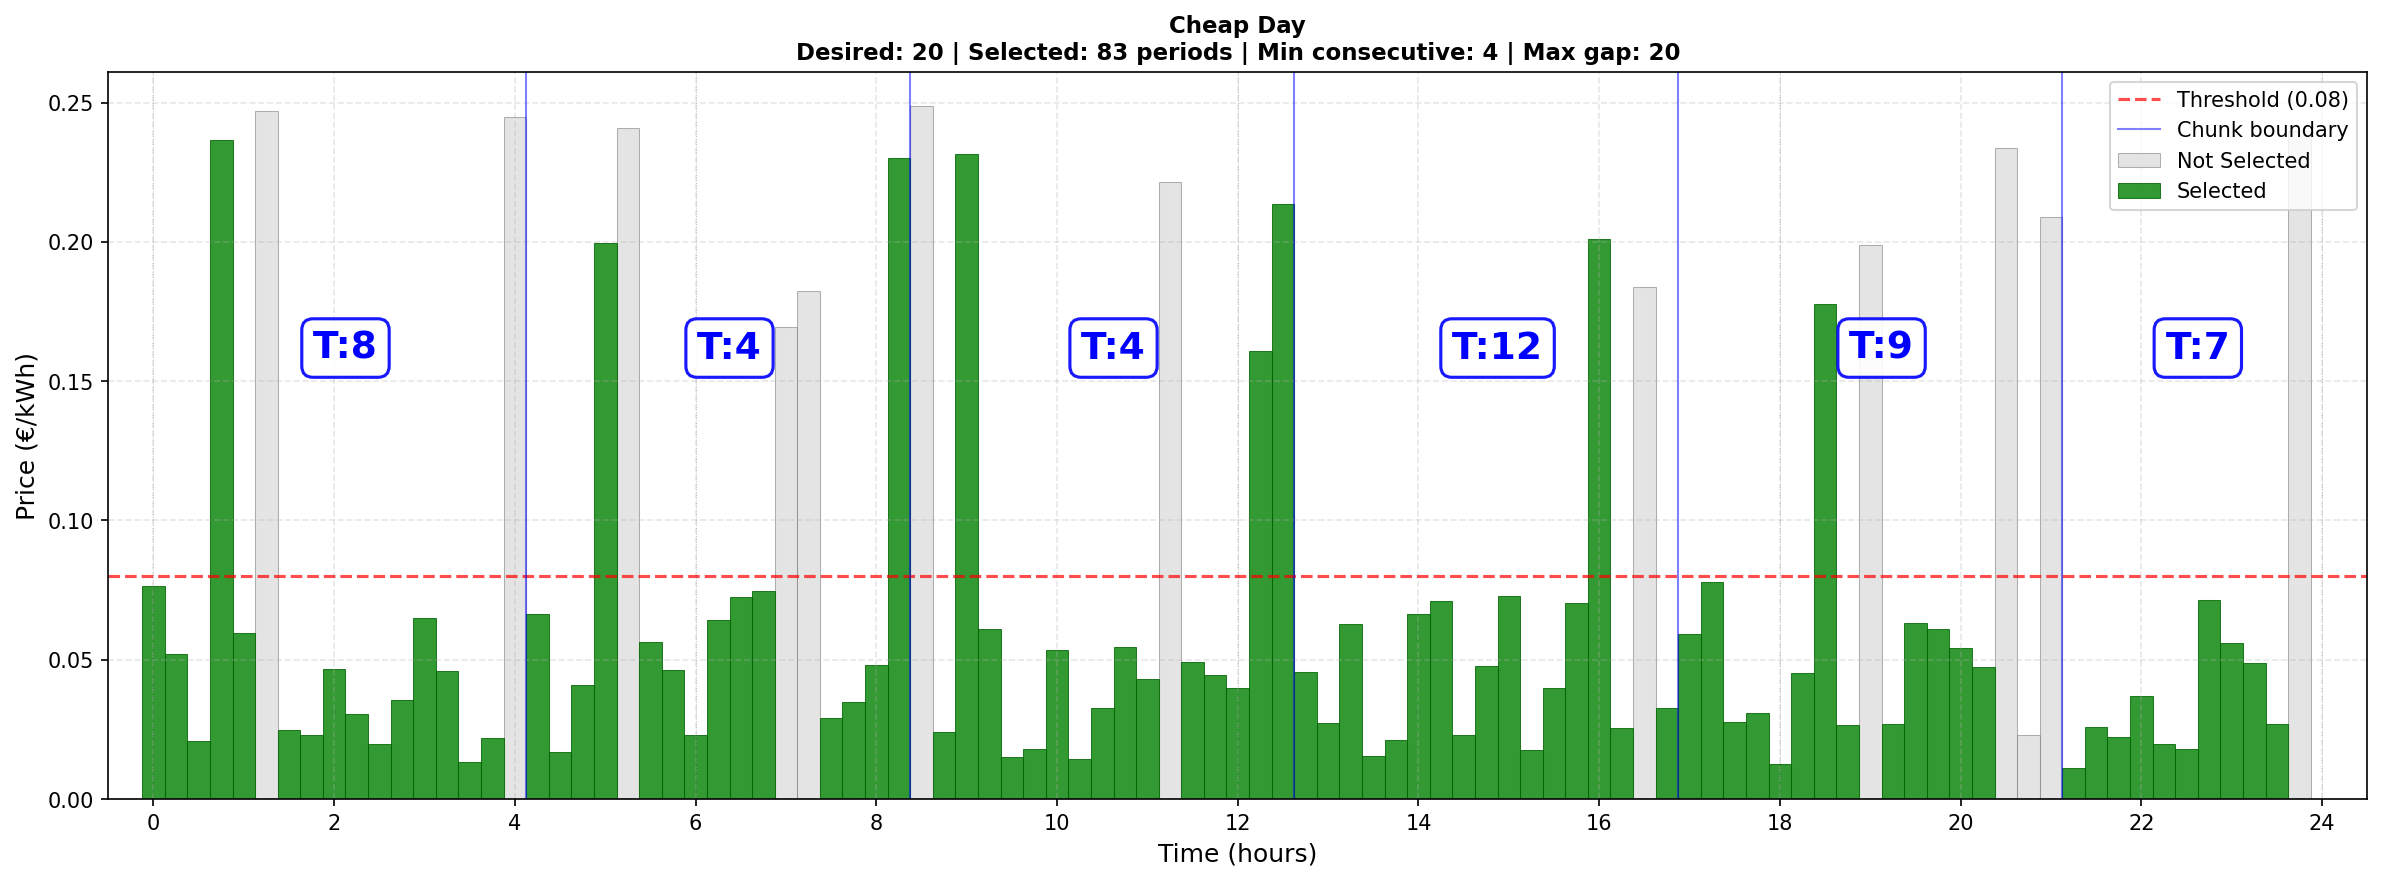
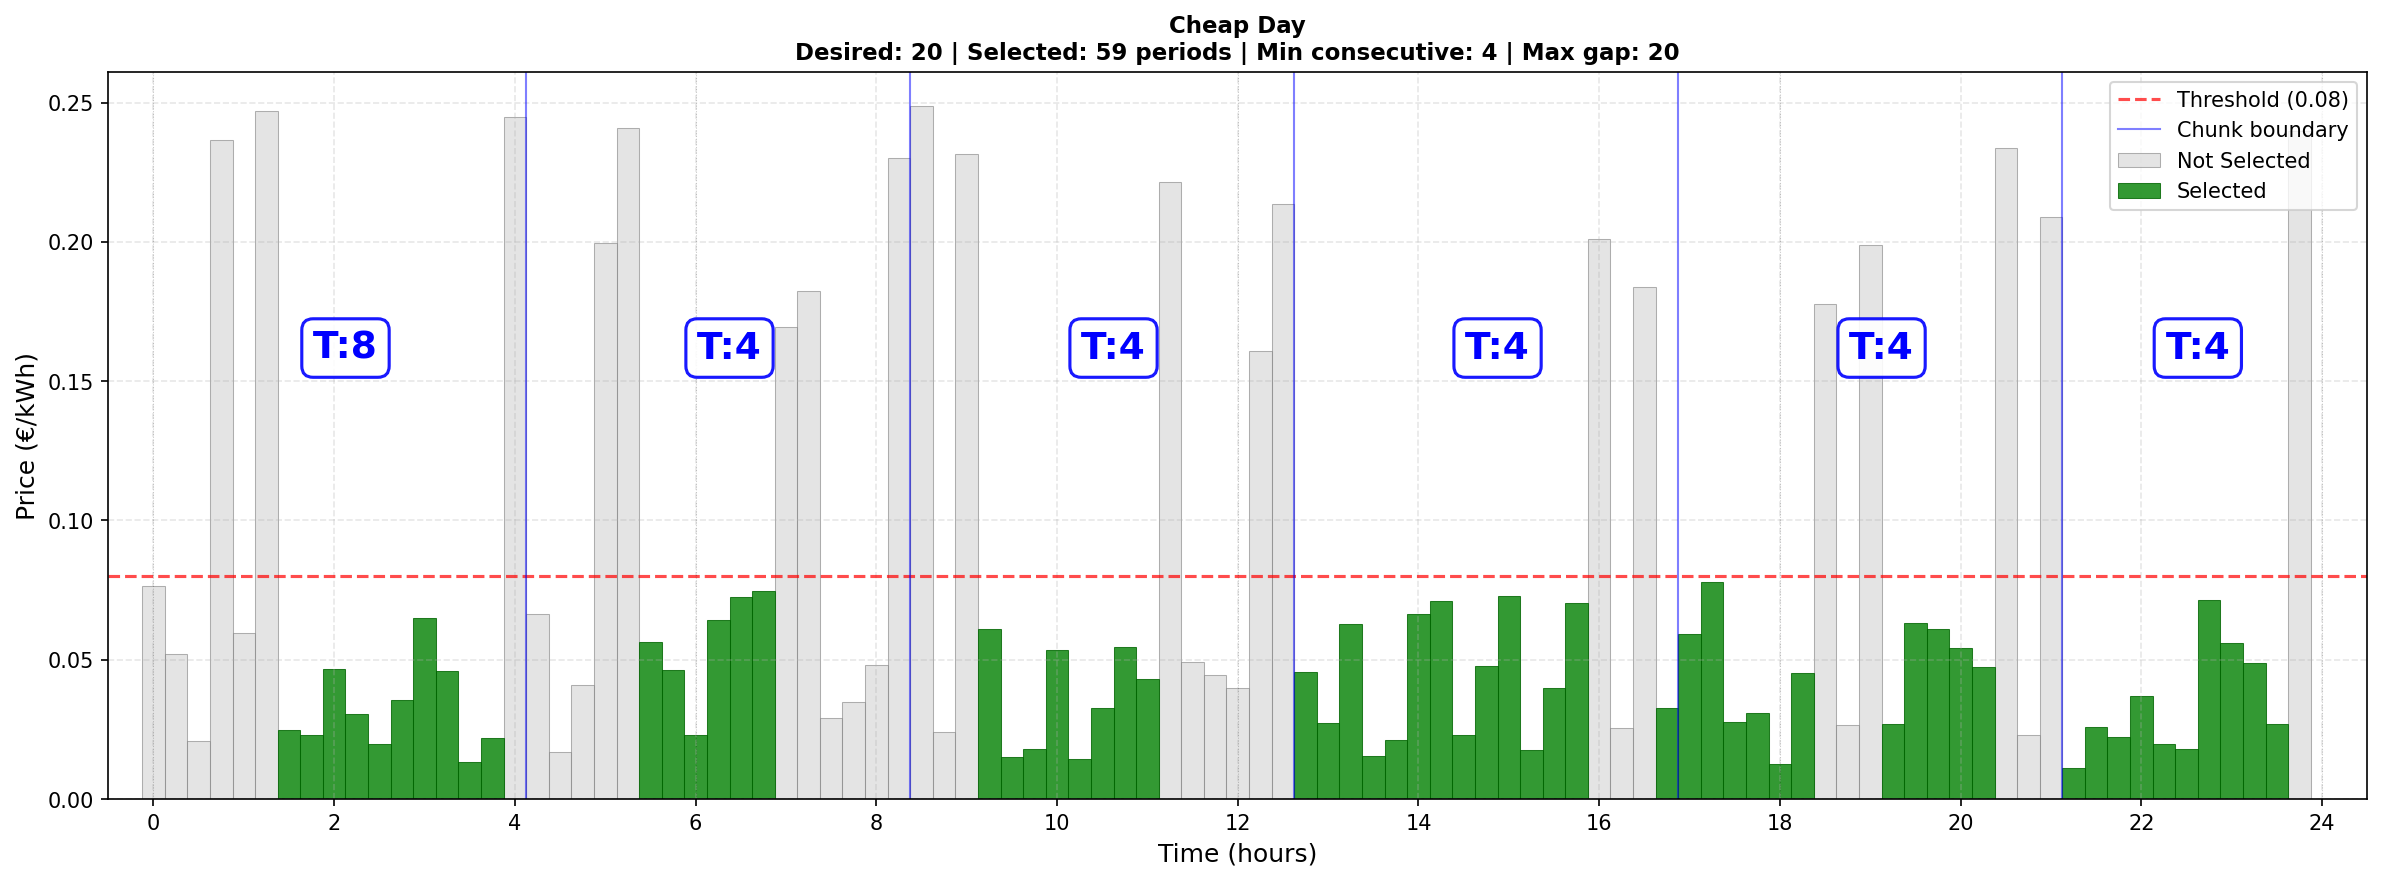
Fix _try_add_cheap_items hang: replace combinations with group-bitmask O(2^G)
- Replace combinations(remaining_cheap, k)-for-all-k O(C(n,k)) with a
  group-bitmask approach O(2^G) where G = number of consecutive cheap groups.
  For cheap_day this was 2^16=65,536 iterations instead of astronomical C(40,k).

- Add _MAX_CHEAP_GROUPS=20 safety guard: raises ValueError immediately if
  num_groups exceeds the limit, preventing infinite CPU spin.

- Add logging (DEBUG level) reporting remaining_cheap count, group count,
  and final items added so the path is always observable.

- brute_force.py: add _MAX_BRUTE_FORCE_ITEMS=28 defensive check that raises
  ValueError immediately if called with more items than the combination search
  can safely handle.

- lib.rs: improve the >28 error message to match the defensive-guard pattern
  used in the Python side.

Result for cheap_day (96 items, threshold=0.08, 16 groups, 40 remaining):
  before: hangs forever at 100% CPU
  after:  0.74s, 59 items selected, all cheap, 0 expensive spikes

diff --git a/src/spot_planner/main.py b/src/spot_planner/main.py
@@ -1,9 +1,17 @@
+import logging as _logging
 from decimal import Decimal
-from itertools import combinations as _combinations
 from typing import Sequence
 
 # Import two-phase algorithm which handles both short and long sequences
 from spot_planner import two_phase
+
+_LOG = _logging.getLogger(__name__)
+
+# Maximum number of consecutive cheap-item groups that _try_add_cheap_items will
+# enumerate via bitmask.  Each additional group doubles the search space:
+# 2^20 ≈ 1 M iterations is an acceptable upper bound; anything beyond that is a
+# sign of unexpected input and we raise immediately instead of hanging forever.
+_MAX_CHEAP_GROUPS = 20
 
 
 def get_cheapest_periods(
@@ -145,12 +153,19 @@ def _try_add_cheap_items(
 ) -> list[int]:
     """Augment result by adding remaining below-threshold items without any bridge items.
 
-    After the base algorithm produces a valid selection, tries all combinations of the
+    After the base algorithm produces a valid selection, tries all subsets of the
     remaining below-threshold items (those not in result with price <= threshold).
-    For each combination the full merged set is validated against all constraints —
+    For each subset the full merged set is validated against all constraints —
     no items above the threshold are added as bridges.
 
-    Returns the selection with the most items added; ties broken by lowest average cost.
+    Implementation uses a group-bitmask approach:
+      1. Group remaining cheap items into maximal consecutive runs ("groups").
+      2. Try all 2^num_groups subsets of *whole groups* — O(2^G) instead of the
+         exponential O(C(n, k)) that the naive combinations approach gives.
+      3. Return the subset that adds the most items; ties broken by lowest avg cost.
+
+    A hard limit of _MAX_CHEAP_GROUPS groups is enforced.  If that limit is
+    exceeded the function raises ValueError immediately rather than hanging.
     """
     n = len(prices)
     result_set = set(result)
@@ -162,25 +177,79 @@ def _try_add_cheap_items(
     if not remaining_cheap:
         return result
 
-    # Try subsets from largest to smallest. Return as soon as the maximum valid
-    # size is found. Among same-size valid combos, prefer lowest average cost.
-    for size in range(len(remaining_cheap), 0, -1):
-        best_candidate: list[int] | None = None
-        best_avg = Decimal("inf")
-        for combo in _combinations(remaining_cheap, size):
-            candidate = sorted(result + list(combo))
-            if two_phase._validate_full_selection(
-                candidate,
-                n,
-                min_consecutive_periods,
-                max_gap_between_periods,
-                max_gap_from_start,
-            ):
-                avg = sum(prices[i] for i in candidate) / len(candidate)
-                if avg < best_avg:
-                    best_avg = avg
-                    best_candidate = candidate
-        if best_candidate is not None:
-            return best_candidate
+    # ------------------------------------------------------------------
+    # Group remaining cheap items into maximal consecutive runs.
+    # ------------------------------------------------------------------
+    groups: list[list[int]] = []
+    g: list[int] = [remaining_cheap[0]]
+    for i in range(1, len(remaining_cheap)):
+        if remaining_cheap[i] == remaining_cheap[i - 1] + 1:
+            g.append(remaining_cheap[i])
+        else:
+            groups.append(g)
+            g = [remaining_cheap[i]]
+    groups.append(g)
+
+    num_groups = len(groups)
+    _LOG.debug(
+        "_try_add_cheap_items: n=%d, base_result=%d items, "
+        "remaining_cheap=%d items in %d groups",
+        n, len(result), len(remaining_cheap), num_groups,
+    )
+
+    # -----------------------------------------------------------------------
+    # Safety guard: if there are too many groups the bitmask search would take
+    # too long.  Crash fast rather than hanging the process at 100 % CPU.
+    # -----------------------------------------------------------------------
+    if num_groups > _MAX_CHEAP_GROUPS:
+        msg = (
+            f"_try_add_cheap_items: {num_groups} groups of remaining cheap items "
+            f"exceeds the safety limit of {_MAX_CHEAP_GROUPS} groups "
+            f"(would require up to 2^{num_groups} = {2**num_groups:,} iterations). "
+            f"n={n}, remaining_cheap={len(remaining_cheap)}. "
+            f"This is a bug — the base algorithm should have consumed more items."
+        )
+        raise ValueError(msg)
+
+    # ------------------------------------------------------------------
+    # Exhaustively enumerate all 2^num_groups non-empty subsets of whole
+    # groups via bitmask.  For cheap_day with 16 groups this is only
+    # 65 536 iterations instead of C(40, k) for k = 40..1 which is
+    # astronomically larger.
+    # ------------------------------------------------------------------
+    best_candidate: list[int] | None = None
+    best_items_added = 0
+    best_avg = Decimal("inf")
+
+    for mask in range(1, 1 << num_groups):
+        candidate = list(result)
+        items_added = 0
+        for gi, grp in enumerate(groups):
+            if mask & (1 << gi):
+                candidate.extend(grp)
+                items_added += len(grp)
+        candidate.sort()
+
+        if not two_phase._validate_full_selection(
+            candidate, n, min_consecutive_periods, max_gap_between_periods, max_gap_from_start
+        ):
+            continue
+
+        if items_added > best_items_added:
+            best_items_added = items_added
+            best_avg = sum(prices[i] for i in candidate) / len(candidate)
+            best_candidate = candidate
+        elif items_added == best_items_added:
+            avg = sum(prices[i] for i in candidate) / len(candidate)
+            if avg < best_avg:
+                best_avg = avg
+                best_candidate = candidate
+
+    if best_candidate is not None:
+        _LOG.debug(
+            "_try_add_cheap_items: added %d cheap items → total %d selected",
+            best_items_added, len(best_candidate),
+        )
+        return best_candidate
 
     return result

diff --git a/src/spot_planner/brute_force.py b/src/spot_planner/brute_force.py
@@ -5,8 +5,15 @@ all combinations to find the optimal selection of periods.
 """
 
 import itertools
+import logging as _logging
 from decimal import Decimal
 from typing import Sequence
+
+_LOG = _logging.getLogger(__name__)
+
+# The combination search is O(C(n, k)) — exponential for large n.  Feeding more
+# than this many items would hang the process.  Matches the Rust-side limit.
+_MAX_BRUTE_FORCE_ITEMS = 28
 
 
 def _is_valid_combination(
@@ -143,6 +150,20 @@ def get_cheapest_periods_python(
     This is the fallback implementation when Rust is not available, or for
     sequences that are small enough to be handled by brute-force.
     """
+    # Defensive guard: the combination search is exponential in len(prices).
+    # Anything above the brute-force limit must be routed through the two-phase
+    # algorithm instead — fail immediately rather than hanging at 100 % CPU.
+    if len(prices) > _MAX_BRUTE_FORCE_ITEMS:
+        msg = (
+            f"brute-force received {len(prices)} items but the combination search "
+            f"is only safe for ≤{_MAX_BRUTE_FORCE_ITEMS} items. "
+            f"Use the two-phase algorithm for longer sequences."
+        )
+        raise ValueError(msg)
+    _LOG.debug(
+        "get_cheapest_periods_python: n=%d, min_sel=%d, aggressive=%s",
+        len(prices), min_selections, aggressive,
+    )
     price_items: tuple[tuple[int, Decimal], ...] = tuple(enumerate(prices))
     cheap_items: tuple[tuple[int, Decimal], ...] = tuple(
         (index, price) for index, price in price_items if price <= low_price_threshold

diff --git a/src/lib.rs b/src/lib.rs
@@ -200,10 +200,15 @@ fn get_cheapest_periods(
         ));
     }
 
+    // Safety guard: the combination search is O(C(n, k)) — exponential for large n.
+    // Anything above this limit must be routed through the two-phase algorithm
+    // instead.  Fail immediately rather than hanging at 100 % CPU.
     if prices.len() > 28 {
-        return Err(PyErr::new::<pyo3::exceptions::PyValueError, _>(
-            "prices cannot contain more than 28 items",
-        ));
+        return Err(PyErr::new::<pyo3::exceptions::PyValueError, _>(format!(
+            "brute-force received {} items but the combination search is only safe \
+             for ≤28 items. Use the two-phase algorithm for longer sequences.",
+            prices.len()
+        )));
     }
 
     if min_selections == 0 {
